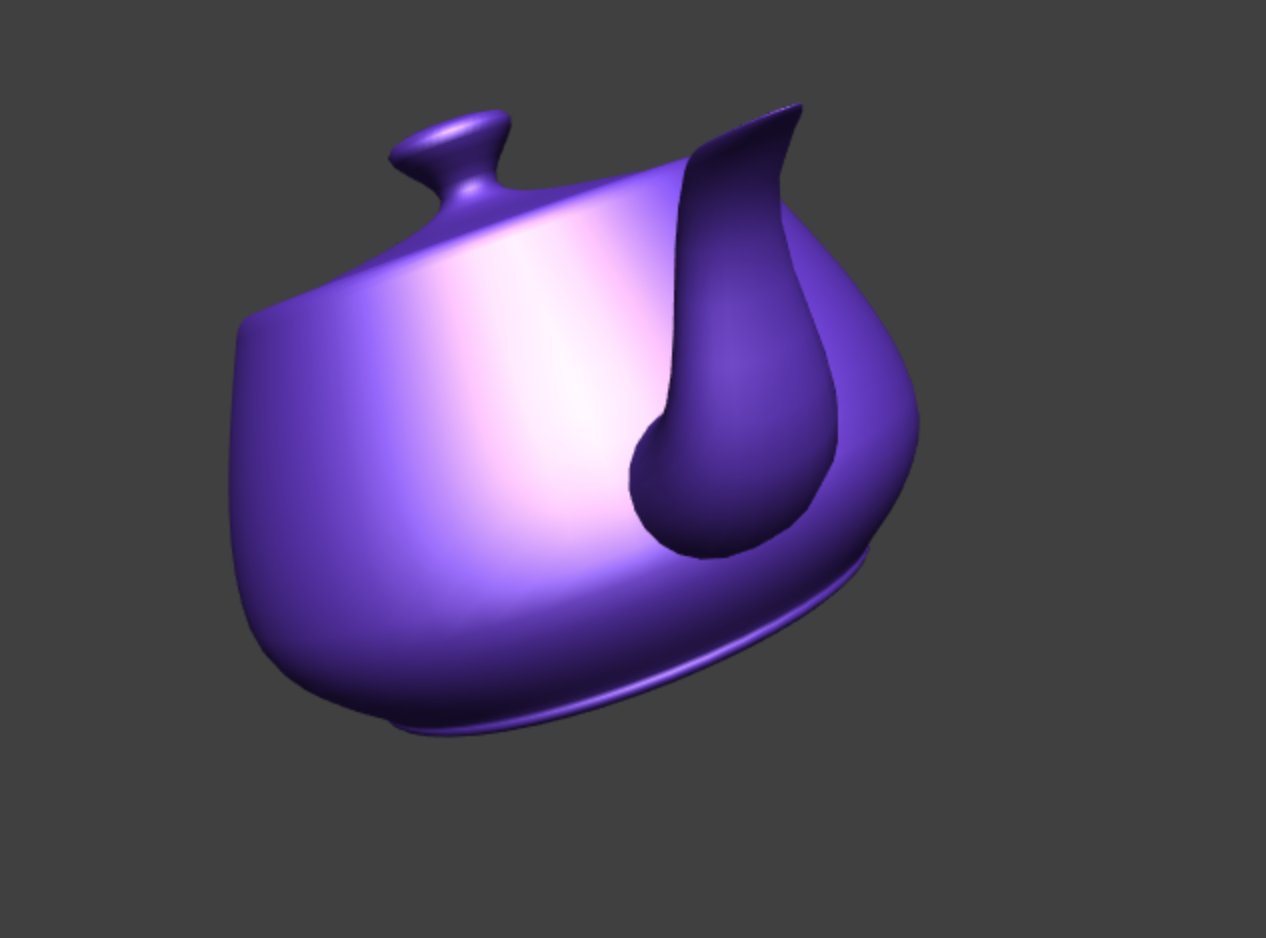
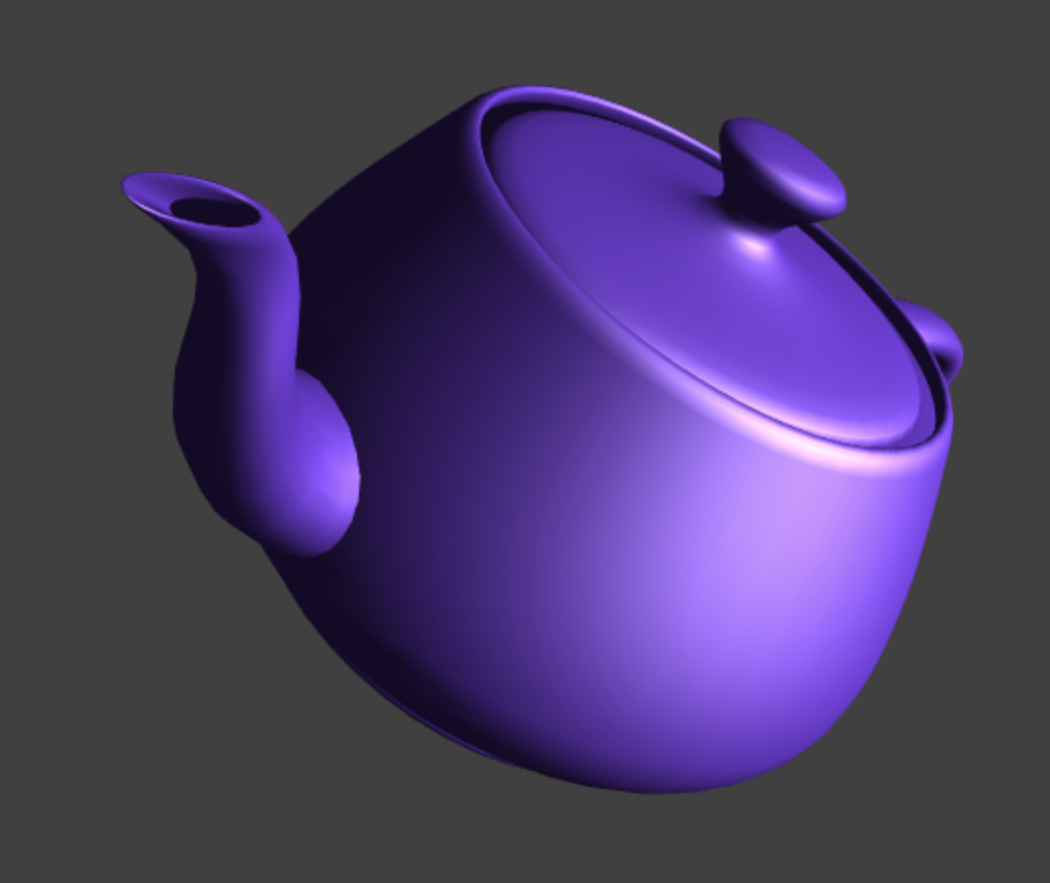
Fix "nipples"

diff --git a/src/teapot.rs b/src/teapot.rs
@@ -154,10 +154,23 @@ fn tesselate_patch(
 
             verts.push([pt[0] as f32, pt[1] as f32, pt[2] as f32, 1.0]);
 
-            // normal is cross of the 2 tangents
-            // @todo handle the coincident control points case
-            let normal = tan2.normalize().cross(tan1.normalize());
-            norms.push([normal[0] as f32, normal[1] as f32, normal[2] as f32]);
+            // the normal is cross of the 2 tangents,
+            // but if we have coincident control points, it is possible
+            // that one of the first partials is zero length.
+            let norm_tol2 = 1.0e-8;
+            if (tan1.magnitude2() > norm_tol2 && tan2.magnitude2() > norm_tol2) {
+                let normal = tan2.normalize().cross(tan1.normalize());
+                norms.push([normal[0] as f32, normal[1] as f32, normal[2] as f32]);
+            } else {
+                // A bit hacky, but the 2 nipples happen to be at the top and bottom
+                // of the teapot, and we know the normals there.
+                let normal = if (pt[2] > 0.) {
+                    [0., 0.,-1.]
+                } else {
+                    [0., 0., 1.]
+                };
+                norms.push(normal);
+            }
 
             let uv = [u as f32, v as f32];
             uvs.push(uv);
